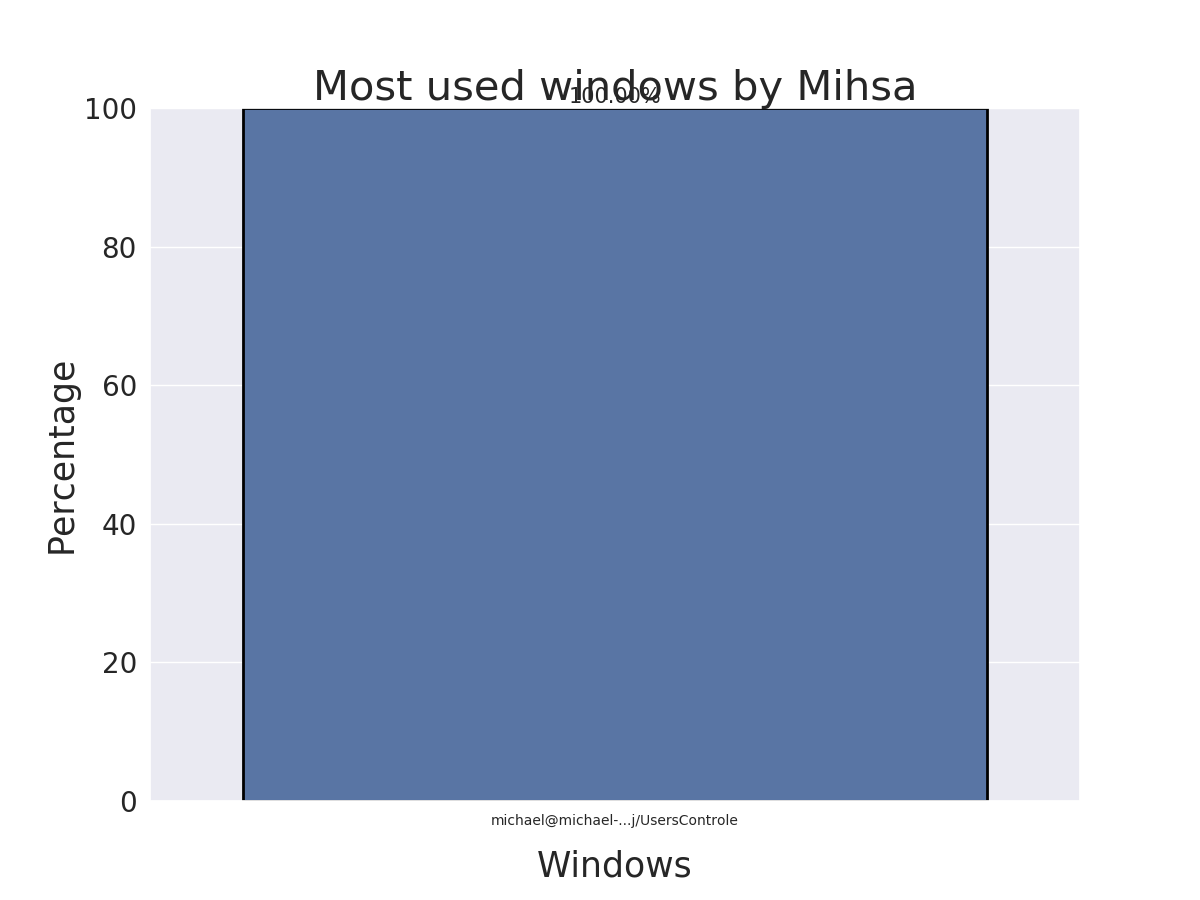
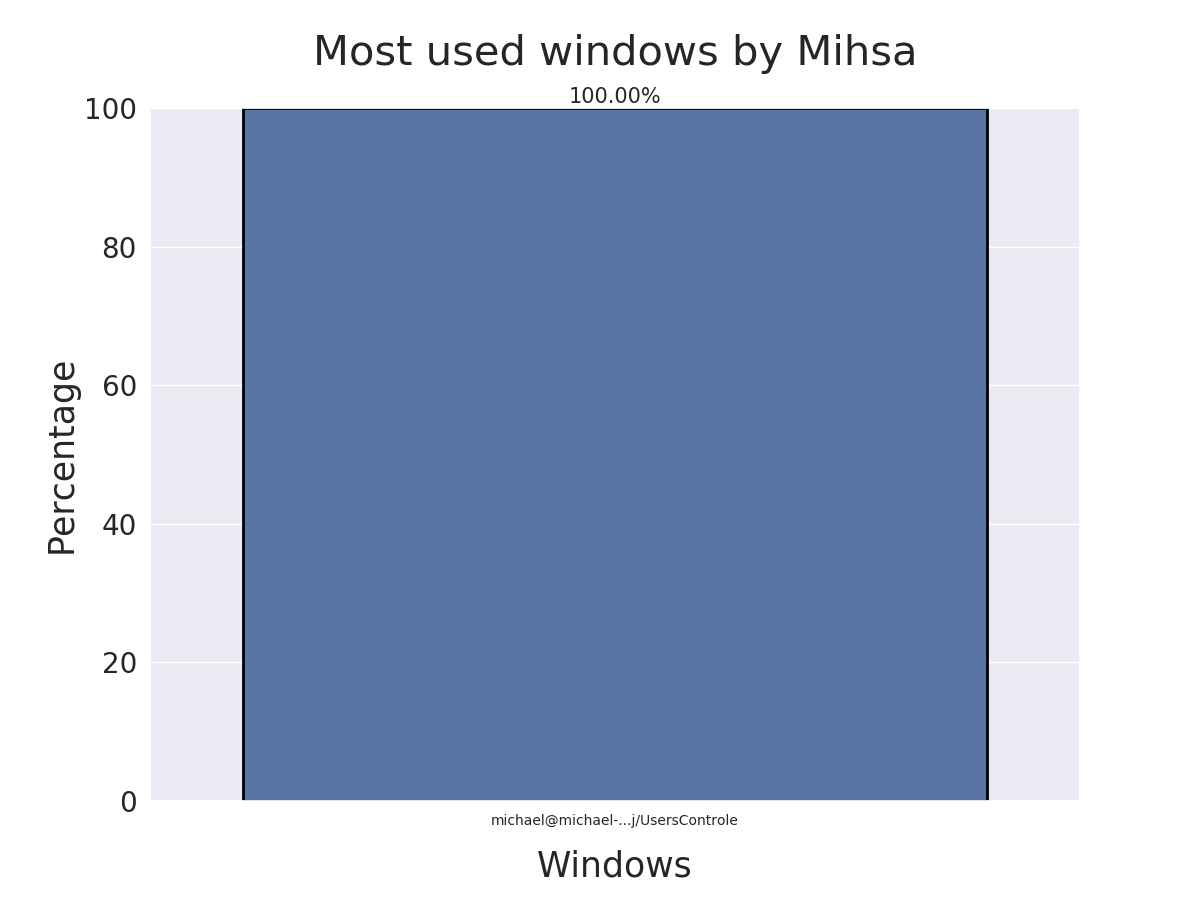
Prepare to pull

Changed region(s): [[0.2467, 0.0311, 0.7708, 0.1244]]

diff --git a/MainServer.py b/MainServer.py
@@ -9,6 +9,9 @@ import time
 from datetime import datetime
 from collections import deque
 from server import TcpServer
+import os
+from models.Database import DATABASE_NAME
+from models.Database import Session
 import CreateDB
 import DB_access
 
@@ -42,6 +45,7 @@ def disconnect_client(user):
                 pass
             else:
                 traceback.print_exc()
+    else:
         print("[System]: Trying to disconnect unknown worker")
 
 
@@ -154,10 +158,8 @@ def break_connection(server_socket):
     # And then shut down the server and killing the bot
     server_socket.shutdown(socket.SHUT_RDWR)
     server_socket.close()
-    TGBot.kill()
     print("[System]: Closing connection...")
     sys.exit(0)
-
 
 
 def main():
@@ -199,22 +201,20 @@ def main():
 
     # We will need stdin, so also add it 
     connection_list.append(sys.stdin)
-    nicknames.append("STDIN")
+    nicknames.append("__stdin")
     addresses.append(0)
 
     print("[System]: Socket setup has been done!")
 
-    CreateDB.create_database(False)
+    db_existed = os.path.exists(DATABASE_NAME)
+    if not db_existed:
+        CreateDB.create_database(False)
 
     # Does not wait, but we don't need to, because kill it while closing connection
-    #global TGBot
-    #TGBot = subprocess.Popen("./TGBot.py")
-    #print("[System]: Telegram bot has been activated!")
-
-    # Prepare a file for all workers names (for the beta version)
-    #file = open("./Names.dat", "w")
-    #file.write("")
-    #file.close()
+    if len(sys.argv) > 1 and sys.argv[1] == '-TGbot':
+        global TGBot
+        TGBot = subprocess.Popen("./TGBot.py")
+        print("[System]: Telegram bot has been activated!")
 
     # Main loop
     try:
@@ -242,9 +242,6 @@ def main():
                     print(f"[System]: New connection: ({nick}, {str(address)})")
                     # Adding new worker to list of connections, names, and main dictionary
                     connection_list.append(client)
-                    #file = open("./Names.dat", "a")
-                    #file.write(nick + "\n")
-                    #file.close()
                     nicknames.append(nick)
                     workers[nick] = {}
                     addresses.append(address)
@@ -315,7 +312,6 @@ def main():
 
                             DB_access.AddComputerInfo(DB_access.Session(), nicknames.index(nick) - 1, node)
 
-
                             # That's all preparing for graphing histograms of active windows
                             #lines = [workers[nick]["Maximum used window"] + "\n", workers[nick]["Max used percent 1"] + "\n"]
 
@@ -336,7 +332,8 @@ def main():
     except KeyboardInterrupt:
         # Cleaning everything in case of keyboard interruption
         break_connection(server_socket)
-
+        if len(sys.argv) > 1 and sys.argv[1] == '-TGbot':
+            TGBot.kill()
 
 if __name__ == '__main__':
     main()

diff --git a/Worker.py b/Worker.py
@@ -21,12 +21,9 @@ BUFSIZE = 2048
 ENCODE = 'utf-8'
 SOCKET_TIMEOUT = 5
 
-info_string = ""
-
-
 # ----------------------------------------------- Info about processes -----------------------------------------------
 def get_processes_info():
-    global info_string
+    info_string = ""
     processes = []
     for process in psutil.process_iter():
         # get all process info in one shot
@@ -66,10 +63,14 @@ def get_processes_info():
     info_string += "NEW_INFO\n"
     info_string += str(len(processes)) + "\n"
 
+    file = open("./FileToSend.dat", "w")
+    file.write(info_string)
+    file.close()
+
 
 # ------------------------------------------- Info about system as a whole -------------------------------------------
 def get_integral_info():
-    global info_string
+    info_string = ""
     # get CPU frequency
     cpu_freq = psutil.cpu_freq()
 
@@ -99,8 +100,9 @@ def get_integral_info():
             info[inf] = 0
         info_string += str(info[inf]) + "\n"
 
-    return info
-
+    file = open("./FileToSend.dat", "a")
+    file.write(info_string)
+    file.close()
 
 # ----------------------------------------------- Get list of windows ------------------------------------------------
 def get_winlist():
@@ -113,8 +115,7 @@ def get_winlist():
 
 # ------------------------------------------------ Info about windows ------------------------------------------------
 def get_win_info():
-    global info_string
-    info_string += "NEW_INFO\n"
+    info_string = "NEW_INFO\n"
 
     wlist = get_winlist()
     for w in wlist:
@@ -193,6 +194,10 @@ def get_win_info():
     else:
         info_string += f"Window at mouse name::::" + "Root window" + "\n"
 
+    file = open("./FileToSend.dat", "a")
+    file.write(info_string)
+    file.close()
+
 
 # function with obtaining all info
 def main_iteration():
@@ -215,7 +220,6 @@ def main():
     worker = TcpClient(host, port)
 
     warnings.filterwarnings("ignore")
-    global info_string
 
     # dictionary with {"[window name] : [activity percentage]"}
     global win_activ    
@@ -237,13 +241,9 @@ def main():
         while True:
             loop_times += 1
             main_iteration()
-            file = open("./FileToSend.dat", "w")
-            file.write(info_string)
-            file.close()
             file = open("./FileToSend.dat", "rb")
             worker.sendfile("./FileToSend.dat", file)
             file.close()
-            info_string = ""
             time.sleep(5)
 
     except KeyboardInterrupt:

diff --git a/Plot.py b/Plot.py
@@ -6,6 +6,8 @@ import seaborn as sns
 import numpy as np
 import os
 from sys import argv
+import CreateDB
+import DB_access
 
 
 def main():
@@ -27,6 +29,11 @@ def main():
     except:
         pass
     file.close()
+
+    for win in win_list:
+        if percent_list[win_list.index(win)] == 0:
+            del percent_list[win_list.index(win)]
+            del win_list[win_list.index(win)]
 
     # Preparing for dataframe
     data = {"Windows":    win_list,
@@ -62,7 +69,7 @@ def main():
     # Setting the y-axis label and its size
     plt.ylabel("Percentage", fontsize=25)
 
-    plt.title("Most used windows by " + argv[1],fontsize=30)
+    plt.title("Most used windows by " + argv[1], fontsize=30, x=0.5, y=1.05)
 
     # Finally plotting the graph
     plt.savefig("./Graphs/Windows" + argv[1] + ".png")

diff --git a/TGBot.py b/TGBot.py
@@ -41,10 +41,7 @@ def button(update: Update, context: CallbackContext):
 
 def ReadNames():
     global workers_list
-    file = open("./Names.dat", "r")
-    workers_list = file.read().split("\n")
-    file.close()
-    del workers_list[-1]
+    workers_list = DB_access.TakeUsers(DB_access.Session())
 
 
 def worker_info(worker, update: Update, context: CallbackContext):

diff --git a/DB_access.py b/DB_access.py
@@ -36,7 +36,7 @@ def AddUser(session: Session, name: str, comp: int):
     session.close()
 
 # возвращает текущий список пользователей
-def TakeUsesr(session: Session):
+def TakeUsers(session: Session):
     users = session.query(User)
     users_names = [user.name for user in users]
     return users_names
